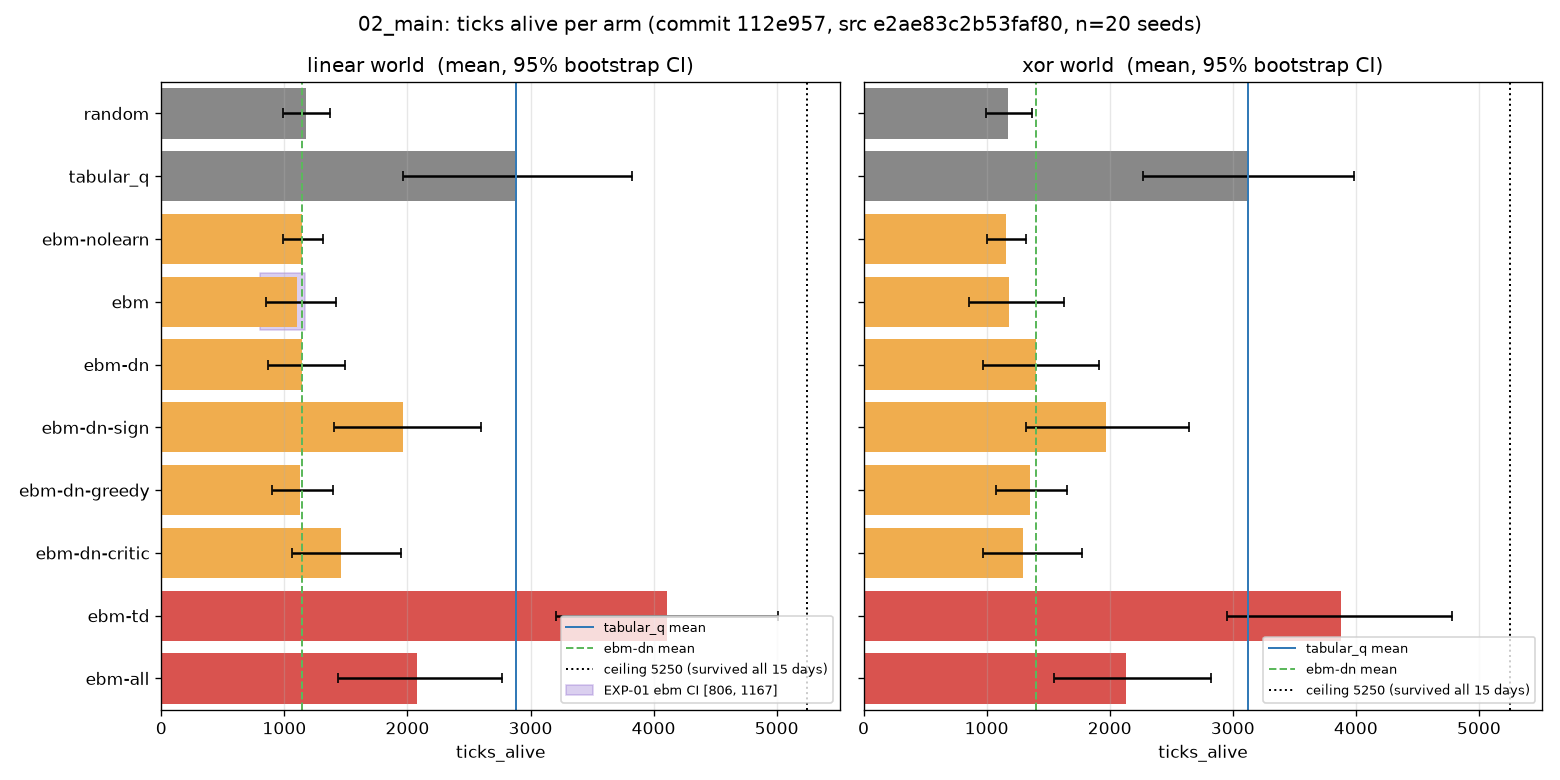
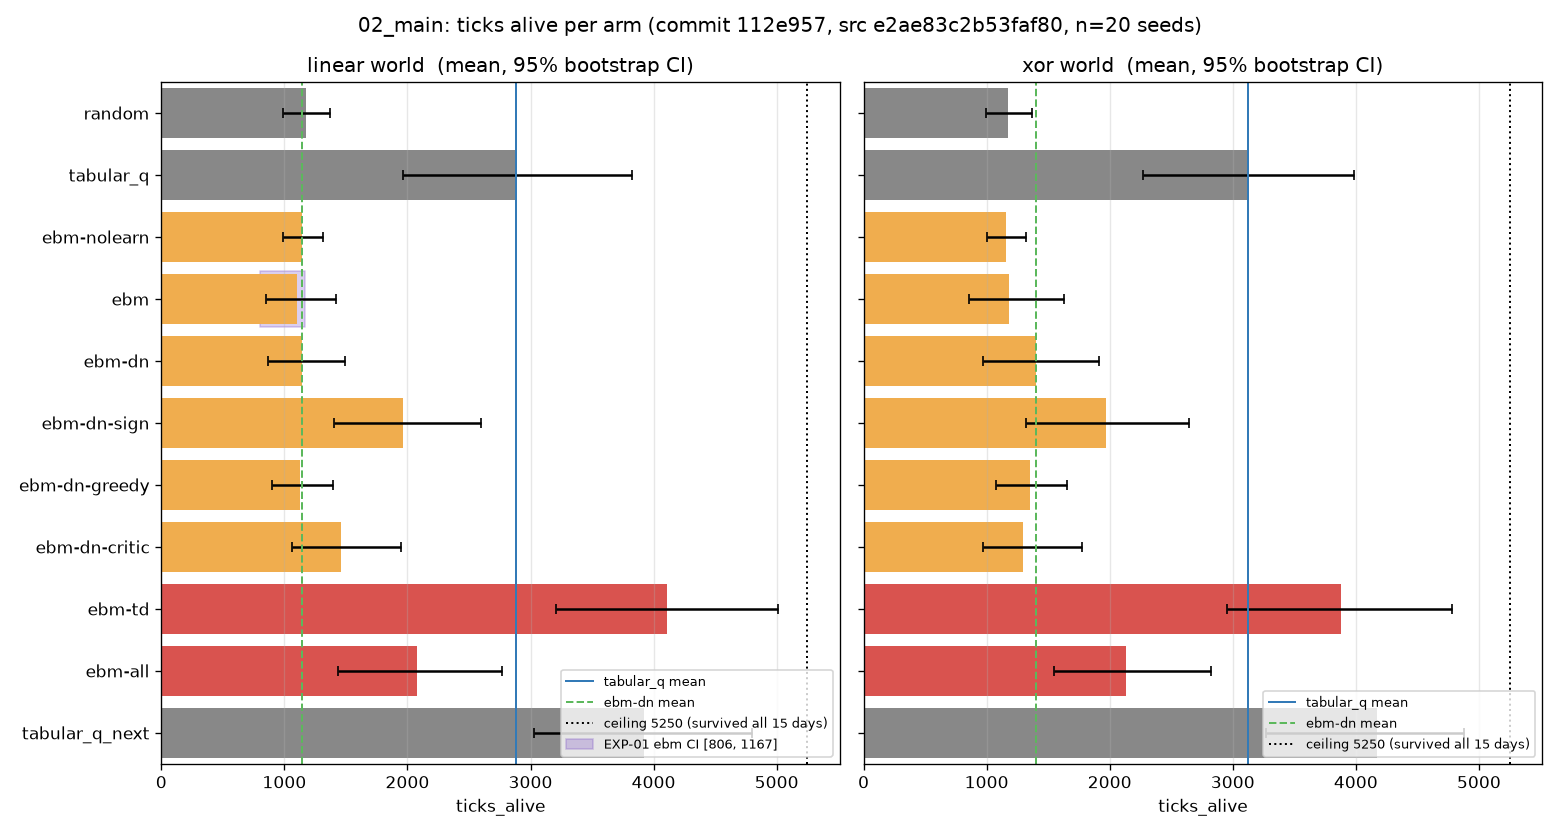
report_exp02: tabular_q_next in the table, G vs textbook target, paired differences; report saved as 02_main_report.md

diff --git a/experiments/report_exp02.py b/experiments/report_exp02.py
@@ -14,7 +14,7 @@ R = os.path.join(os.path.dirname(os.path.abspath(__file__)), "results")
 WORLDS = ("linear", "xor")
 # Prereg arms-table order.
 ARMS = ["random", "tabular_q", "ebm-nolearn", "ebm", "ebm-dn", "ebm-dn-sign", "ebm-dn-greedy",
-        "ebm-dn-critic", "ebm-td", "ebm-all"]
+        "ebm-dn-critic", "ebm-td", "ebm-all", "tabular_q_next"]   # last = exploratory (A17)
 DECOMP = ["ebm-dn-sign", "ebm-dn-greedy", "ebm-dn-critic", "ebm-td", "ebm-all"]
 # Prereg contrasts, as a:b meaning ΔG = G(a) - G(b): P2 (greedy > sign > critic), P5 (td >= greedy).
 CONTRASTS = "ebm-dn-greedy:ebm-dn-sign,ebm-dn-sign:ebm-dn-critic,ebm-td:ebm-dn-greedy"
@@ -158,6 +158,27 @@ def main(argv=None):
     print("|---|" + "---|" * len(ws))
     for a in gap_arms:
         print(f"| {a} | " + " | ".join(fmt_gap(gaps[w].get(a)) for w in ws) + " |")
+
+    # ---- exploratory: G against the textbook Q target, and paired differences (referee, session 03) --
+    if all("tabular_q_next" in r["lives"] for r in worlds.values()):
+        a2 = argparse.Namespace(**{**vars(args), "target": "tabular_q_next"})
+        gaps2 = gap_rows(worlds, a2)
+        print(f"\n### Exploratory: G against the textbook target tabular_q_next (addendum item 10)\n")
+        for w in ws:
+            g0 = next(iter(gaps2[w].values()), None)
+            if g0: print(f"Denominator tabular_q_next - {args.base} ({w}): {fmt(g0['den'])}")
+        print("\n| arm | " + " | ".join(ws) + " |")
+        print("|---|" + "---|" * len(ws))
+        for a in gap_arms:
+            print(f"| {a} | " + " | ".join(fmt_gap(gaps2[w].get(a)) for w in ws) + " |")
+    print("\n### Paired differences in ticks_alive (arm_a - arm_b, paired bootstrap; the honest companion to G near the ceiling)\n")
+    pairs = [("ebm-td", "tabular_q"), ("ebm-td", "tabular_q_next"), ("ebm-all", "ebm-td"),
+             ("ebm-dn-sign", "ebm-dn"), ("ebm-dn-critic", "ebm-dn-greedy"), ("tabular_q_next", "tabular_q")]
+    print("| a - b | " + " | ".join(ws) + " |")
+    print("|---|" + "---|" * len(ws))
+    for a, b in pairs:
+        cells = [fmt(diff(worlds[w], a, b, "ticks_alive", n_boot=args.n_boot)) if has(worlds[w], a, b) else "n/a" for w in ws]
+        print(f"| {a} - {b} | " + " | ".join(cells) + " |")
 
     # ---- confirmatory tests (linear world unless stated) --------------------------------------------
     print("\n## Confirmatory tests P1-P5 (prereg; linear world unless stated)\n")

diff --git a/experiments/results/02_main_report.md b/experiments/results/02_main_report.md
@@ -1,0 +1,91 @@
+No multiple-comparisons correction. P1–P5 are the only confirmatory tests, each on its own 95% CI; every other contrast is exploratory.
+Source: 02_main_linear (commit 112e957, src e2ae83c2b53faf80, 20 seeds 200-219), 02_main_xor (commit 112e957, src e2ae83c2b53faf80, 20 seeds 200-219)
+
+### Ticks alive and food (mean [95% bootstrap CI], per-arm CI)
+
+| arm | linear ticks_alive | linear food | xor ticks_alive | xor food |
+|---|---|---|---|---|
+| random | 1175 [993, 1367] | 0.90 | 1175 [993, 1367] | 0.90 |
+| tabular_q | 2882 [1963, 3827] | 5.51 | 3124 [2269, 3986] | 5.83 |
+| ebm-nolearn | 1147 [989, 1310] | 0.92 | 1161 [1003, 1321] | 0.92 |
+| ebm | 1102 [853, 1417] | 1.20 | 1185 [854, 1626] | 1.81 |
+| ebm-dn | 1145 [865, 1496] | 1.39 | 1403 [970, 1910] | 1.94 |
+| ebm-dn-sign | 1963 [1404, 2600] | 5.50 | 1966 [1322, 2641] | 4.55 |
+| ebm-dn-greedy | 1127 [897, 1397] | 1.28 | 1354 [1076, 1650] | 1.72 |
+| ebm-dn-critic | 1457 [1064, 1947] | 3.17 | 1296 [968, 1772] | 2.24 |
+| ebm-td | 4113 [3210, 5014] | 9.08 | 3876 [2955, 4780] | 9.01 |
+| ebm-all | 2076 [1437, 2771] | 2.67 | 2131 [1547, 2825] | 2.78 |
+| tabular_q_next | 3919 [3025, 4803] | 9.82 | 4174 [3268, 4879] | 10.72 |
+
+### Lives censored at the 15-day ceiling (ticks_alive == linear 5250, xor 5250), out of n seeds
+
+| arm | linear | xor |
+|---|---|---|
+| random | 0/20 | 0/20 |
+| tabular_q | 9/20 | 9/20 |
+| ebm-nolearn | 0/20 | 0/20 |
+| ebm | 0/20 | 0/20 |
+| ebm-dn | 0/20 | 0/20 |
+| ebm-dn-sign | 1/20 | 2/20 |
+| ebm-dn-greedy | 0/20 | 0/20 |
+| ebm-dn-critic | 1/20 | 1/20 |
+| ebm-td | 15/20 | 14/20 |
+| ebm-all | 2/20 | 2/20 |
+| tabular_q_next | 14/20 | 15/20 |
+
+### Gap fraction G = (arm - ebm-dn) / (tabular_q - ebm-dn), ticks_alive, paired bootstrap over seeds (5000 resamples), 95% CI
+
+Denominator tabular_q - ebm-dn (linear): 1737 [739, 2744]
+Denominator tabular_q - ebm-dn (xor): 1721 [518, 2892]
+
+| arm | linear | xor |
+|---|---|---|
+| ebm-dn-sign | 0.47 [0.06, 1.31] | 0.33 [-0.28, 0.88] |
+| ebm-dn-greedy | -0.01 [-0.50, 0.19] | -0.03 [-0.90, 0.22] |
+| ebm-dn-critic | 0.18 [-0.18, 0.65] | -0.06 [-1.13, 0.35] |
+| ebm-td | 1.71 [0.92, 4.13] | 1.44 [0.76, 4.06] |
+| ebm-all | 0.54 [0.14, 1.15] | 0.42 [-0.16, 0.96] |
+
+### Exploratory: G against the textbook target tabular_q_next (addendum item 10)
+
+Denominator tabular_q_next - ebm-dn (linear): 2774 [1872, 3592]
+Denominator tabular_q_next - ebm-dn (xor): 2771 [1569, 3801]
+
+| arm | linear | xor |
+|---|---|---|
+| ebm-dn-sign | 0.30 [0.05, 0.63] | 0.20 [-0.13, 0.52] |
+| ebm-dn-greedy | -0.01 [-0.20, 0.13] | -0.02 [-0.33, 0.15] |
+| ebm-dn-critic | 0.11 [-0.09, 0.39] | -0.04 [-0.42, 0.18] |
+| ebm-td | 1.07 [0.63, 1.84] | 0.89 [0.51, 1.58] |
+| ebm-all | 0.34 [0.08, 0.70] | 0.26 [-0.07, 0.53] |
+
+### Paired differences in ticks_alive (arm_a - arm_b, paired bootstrap; the honest companion to G near the ceiling)
+
+| a - b | linear | xor |
+|---|---|---|
+| ebm-td - tabular_q | 1230 [-187, 2552] | 752 [-569, 2010] |
+| ebm-td - tabular_q_next | 194 [-1200, 1698] | -298 [-1645, 1046] |
+| ebm-all - ebm-td | -2037 [-2858, -1215] | -1745 [-2832, -590] |
+| ebm-dn-sign - ebm-dn | 818 [121, 1561] | 563 [-273, 1431] |
+| ebm-dn-critic - ebm-dn-greedy | 330 [-132, 944] | -58 [-543, 552] |
+| tabular_q_next - tabular_q | 1036 [-77, 2175] | 1050 [100, 2003] |
+
+## Confirmatory tests P1-P5 (prereg; linear world unless stated)
+
+**P1 (ceiling)**: bar G(ebm-all) >= 0.75 with CI lower bound > 0.5
+  G = 0.54 [0.14, 1.15];  point >= 0.75: no;  lo > 0.5: no
+
+**P2 / P5 (ΔG = G(a) - G(b), paired; frac = share of replicates with G(a) > G(b))**
+  G(ebm-dn-greedy) - G(ebm-dn-sign) = -0.481 [-1.599, -0.075];  frac_a_gt_b = 0.005;  CI excludes 0: yes
+  G(ebm-dn-sign) - G(ebm-dn-critic) = 0.291 [0.015, 0.958];  frac_a_gt_b = 0.980;  CI excludes 0: yes
+  G(ebm-td) - G(ebm-dn-greedy) = 1.719 [0.878, 4.554];  frac_a_gt_b = 1.000;  CI excludes 0: yes
+  P2 bar G(ebm-dn-greedy) > 0.4: G = -0.01 [-0.50, 0.19]
+
+**P3 (replication)**: `ebm` inside EXP-01's CI [806, 1167] and ebm - ebm-nolearn CI includes 0
+  EXP-01 (01_main_linear) ebm: 973 [806, 1167]
+  this run (02_main_linear) ebm mean = 1102.0 (own CI [853, 1417]);  inside EXP-01 CI [806, 1167]: in
+  linear: ebm - ebm-nolearn = -45 [-309, 257];  CI includes 0: yes
+  xor: ebm - ebm-nolearn = 24 [-354, 505];  CI includes 0: yes
+
+**P4 (xor)**: G_xor(ebm-dn-sign) < G_linear(ebm-dn-sign); ΔG = G_linear - G_xor, joined by seed
+  G_linear = 0.471, G_xor = 0.327;  ΔG = 0.144 [-0.507, 1.393];  CI > 0: no;  denominators defined: linear True, xor True
